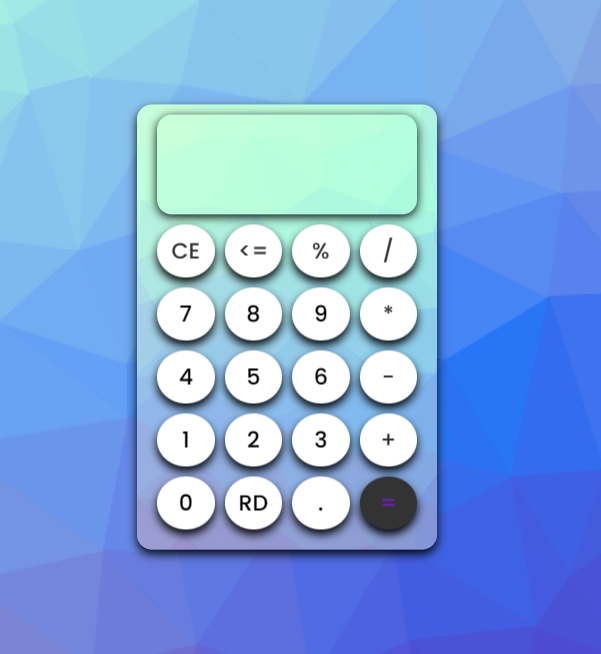
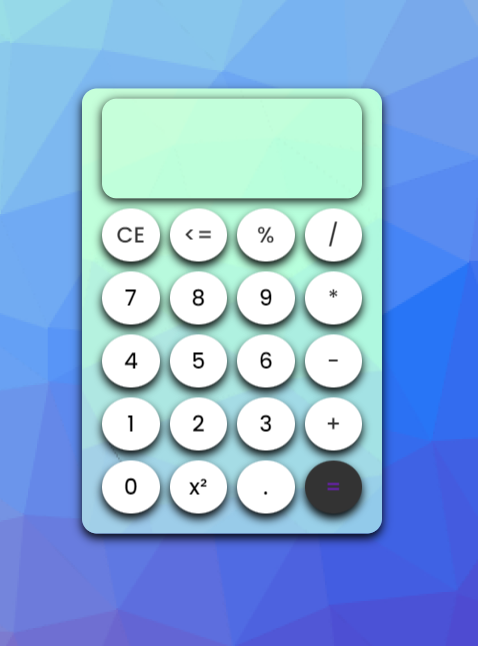
js

diff --git a/Calculadora/script.js b/Calculadora/script.js
@@ -3,54 +3,58 @@ const buttons = document.querySelectorAll("button");
 const specialChars = ["%", "*", "/", "-", "+", "=","x²"];
 let output = "";
 
+
 const calculate = (btnValue) => {
     if (btnValue === "=" && output !== "") {
-        output = evalExpression(output.replace("%", "/100"));
-    } else if (btnValue === "CE") {
+        output = avalExpression(output.replace("%", "/100"));
+    } else if (btnValue === "CE") { //apagar as informações do display
         output = "";
-    } else if (btnValue === "DEL") {
-        output = output.toString().slice(0, -1);
+    } else if (btnValue === "DEL") {  //apagar a primeira informação do display
+        output = output.toString().slice(0, -1); 
     } else if (btnValue === "x²") {
         output = Math.sqrt(parseFloat(output));
     } else {
         output += btnValue;
     }
-    display.value = output;
+    display.value = output; //aparecer no display o output
 };
 
-const evalExpression = (expression) => {
-    const operators = /[+\-*/]/g;
-    const parts = expression.split(operators);
-    const operator = expression.match(operators);
+// declarando a função "avalExpression"
+const avalExpression = (expression) => {
+    const operators = /[+\-*/]/g; // corresponde aos operadores +, -, *, /
+    const parts = expression.split(operators); // usado em strings para dividir a string em um array de substrings, usando um separador nesse caso os operadores
+    const operator = expression.match(operators); // usando o match para encontrar todos os operadores
 
-    if (parts.length === 2 && operator) {
-        const [num1, num2] = parts.map(parseFloat);
-        switch (operator[0]) {
+    if (parts.length === 2 && operator) {  //verifica se a string foi divida corretamente (nº e operator) e se existe um operador
+        const [num1, num2] = parts.map(parseFloat); //extrai os dois valores e converte para float
+        switch (operator[0]) { //usando switch case para definir os casos das operações matemáticas
             case "+": return num1 + num2;
             case "-": return num1 - num2;
             case "*": return num1 * num2;
             case "/": return num1 / num2;
             case "x²": return Math.sqrt(num1);
+            //adicionar mais operações
             default: return NaN;  
         }
         
     }
 
-    return NaN;
+    return NaN; //else da expressão
 };
 
-buttons.forEach((button) => {
+buttons.forEach((button) => { 
     button.addEventListener("click", (e) => calculate(e.target.dataset.value));
+    //eventListener para quando um botão é clicado, rodar a função calculate  de acordo com os argumentos fornecidos pelo usuário
 });
 
 //código para alternar entre os modos de cor
 const themeToggleBtn = document.querySelector(".theme-toggler");
-const calculator = document.querySelector(".container");
+const calcular = document.querySelector(".container");
 const toggleIcon = document.querySelector(".toggler-icon");
 
 let isDark = true;
-themeToggleBtn.onclick = () => {
-  calculator.classList.toggle("dark");
+themeToggleBtn.onclick = () => { //função onclick para ocorrer um evento ocorret quando tal botao for clicado
+  calcular.classList.toggle("dark"); //alterna entre os modos refernciados no container - .dark
   themeToggleBtn.classList.toggle("active");
-  isDark = !isDark;
+  isDark = !isDark; //inverte o valor de isDark, true and false
 };

diff --git a/Index/css/style.css b/Index/css/style.css
@@ -44,7 +44,7 @@ body{
     width: 100%;
     height: 100%;
     border-radius: 12px;
-    object-fit: fill;
+    object-fit: cover;
     box-shadow: 0 7px 15px black;
 }
 
